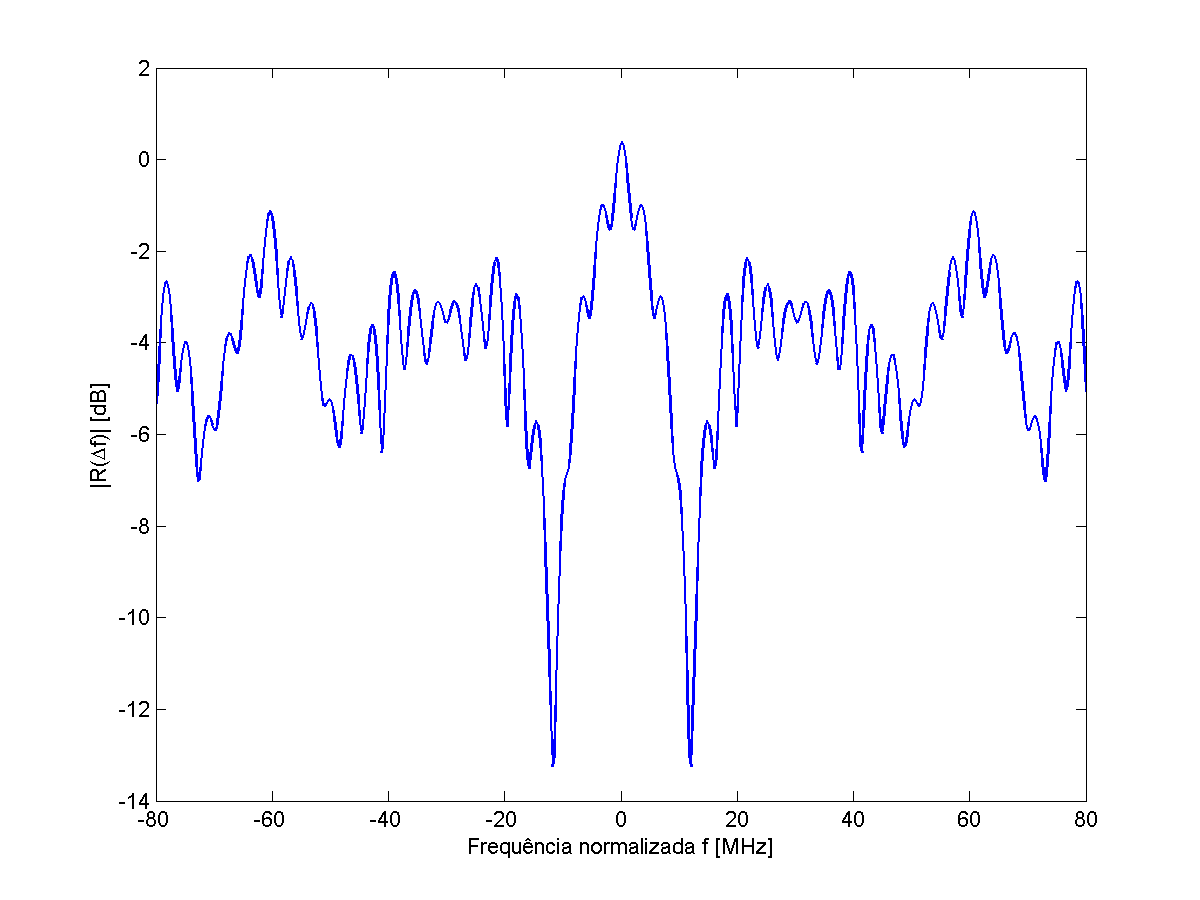
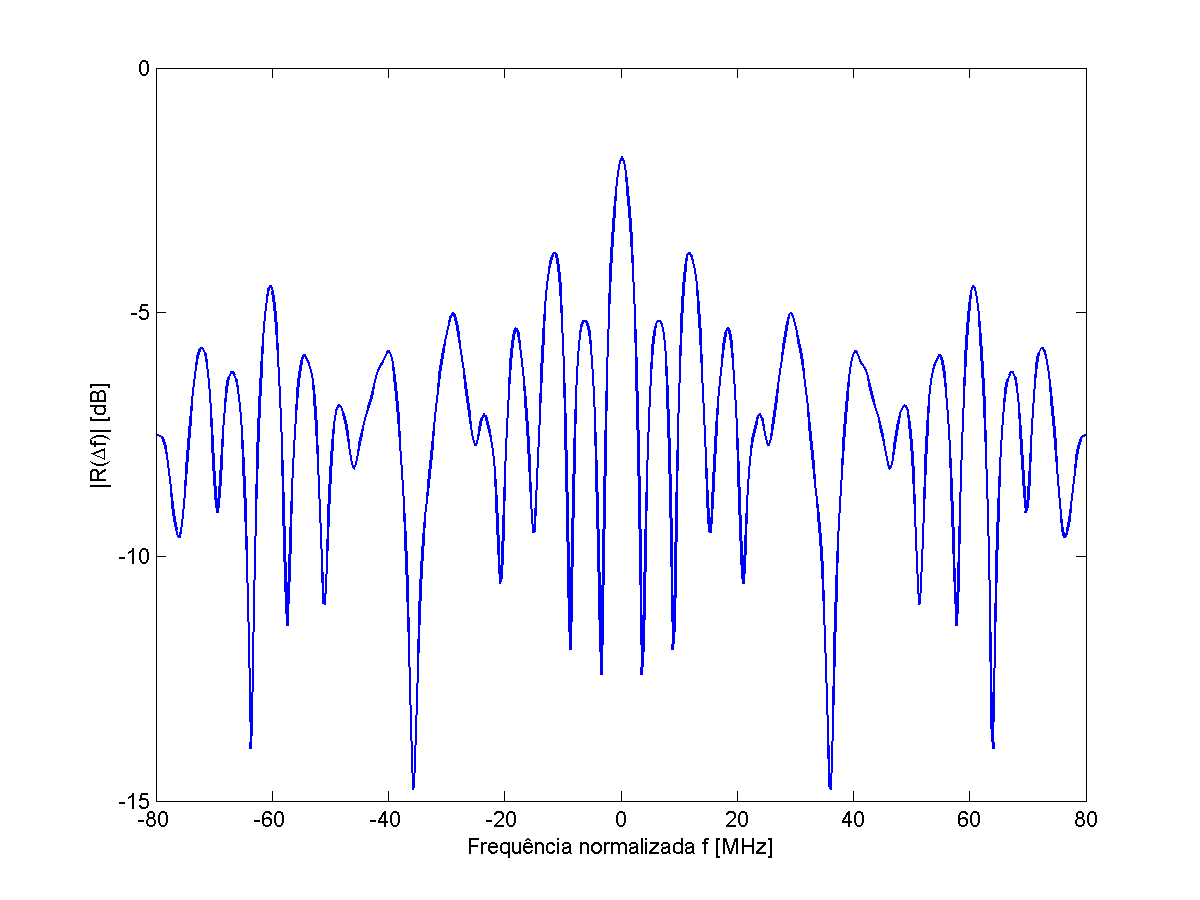
Generated more results
Frequency responses and general results.

diff --git a/src/hsr_script.m b/src/hsr_script.m
@@ -14,7 +14,7 @@ c_sim.release = 'wisil_11n_1.0';     % simulator release
 %% Main Simulation Parameters
 
 % Eb/N0 values in dB
-c_sim.EbN0s = 8:0.2:16;
+c_sim.EbN0s = -20:0.5:20;
 
 % simulation length
 c_sim.min_npackets = 500;    %minimum number of packets
@@ -37,7 +37,7 @@ c_sim.rnd_state = 1;		% initial state of random number generator
 %% Transmitter Parameters
 
 % Standards Version ('802.11a', '802.11n' or '802.11ac')
-c_sim.version = '802.11n';
+c_sim.version = '802.11ac';
 
 % data length of each PSDU in bytes
 c_sim.data_len = 1000;
@@ -46,7 +46,7 @@ c_sim.data_len = 1000;
 c_sim.cyclic_prefix = 'long';
 
 % channel bandwidth
-c_sim.w_channel = 20; %20MHz or 40 MHz
+c_sim.w_channel = 160; %20MHz or 40 MHz
 
 % windowing
 c_sim.timedomwindowing = false; % timedomain windowing
@@ -142,7 +142,7 @@ end
 c_sim.chan_awgn = true;
 
 % Multipath channel model
-c_sim.chan_multipath = 'off';
+c_sim.chan_multipath = 'E';
 % 'off' or 'A' for freq. flat channel
 % 802.11n channel model: 'A','B','C','D', 'E' or 'F'
 c_sim.chan_fixed = false;  % 'true' if channel is fixed for whole simulation
@@ -289,7 +289,7 @@ if exist('L2S','var') == 0 % Only run this section if not called by L2S script
     
     [per,ber,C_channel] = hsr_sim(parameters);
     
-    filename = ['results_' datestr(now, 'yy-mm-dd-HHMM')];
+    filename = ['Results\results_' datestr(now, 'yy-mm-dd-HHMM')];
     save([filename  '.mat'], 'c_sim', 'ber', 'per');
     
 end

diff --git a/src/plot_chan.m b/src/plot_chan.m
@@ -1,5 +1,5 @@
-clc
-clear all
+% clc
+% clear all
 close all
 
 %% Load variables
@@ -7,10 +7,10 @@ close all
 L2S = true;
 hsr_script;
 
-hsr_chan_multipath('init',c_sim.chan_multipath, ...
-    1/c_sim.sampling_freq,c_sim.ch_rolloff, ...
-    c_sim.rnd_state,c_sim.antennas, ...
-    c_sim.chan_vel,c_sim.frame_interval/2);
+% hsr_chan_multipath('init',c_sim.chan_multipath, ...
+%     1/c_sim.sampling_freq,c_sim.ch_rolloff, ...
+%     c_sim.rnd_state,c_sim.antennas, ...
+%     c_sim.chan_vel,c_sim.frame_interval/2);
 c = hsr_chan_multipath('fade',c_sim.chan_norm);
 
 t = (-2:(length(c)-3)).*(1/(c_sim.w_channel*1e6));
@@ -22,7 +22,7 @@ t = (-2:(length(c)-3)).*(1/(c_sim.w_channel*1e6));
 figure(1);
 h = abs(c);
 plot((t)*1e9,h,'LineWidth',1.2);
-% axis([0 max(t*1e9) 0 0.7]);
+axis([0 max(t*1e9) 0 0.7]);
 xlabel('t [ns]');
 ylabel('|h(t)|');
 print('-dpng','figs\channel_response_time.png');

diff --git a/src/interpPoly.m b/src/interpPoly.m
@@ -4,12 +4,12 @@ close all
 
 %% Simulate or load
 
-% fprintf('\n\nSimulate!\n\n');
-% hsr_script;
+fprintf('\n\nSimulate!\n\n');
+hsr_script;
 
-fprintf('\n\nLoad!\n\n');
-filename = 'Results\results_16-10-26-1412';
-load([filename '.mat']);
+% fprintf('\n\nLoad!\n\n');
+% filename = 'Results\results_16-11-21-1319';
+% load([filename '.mat']);
 
 fid = fopen([filename '.txt'],'wt');
 fprintf(fid,'%s\nGI: %s\nBand: %d MHz\n\n',c_sim.version,...
